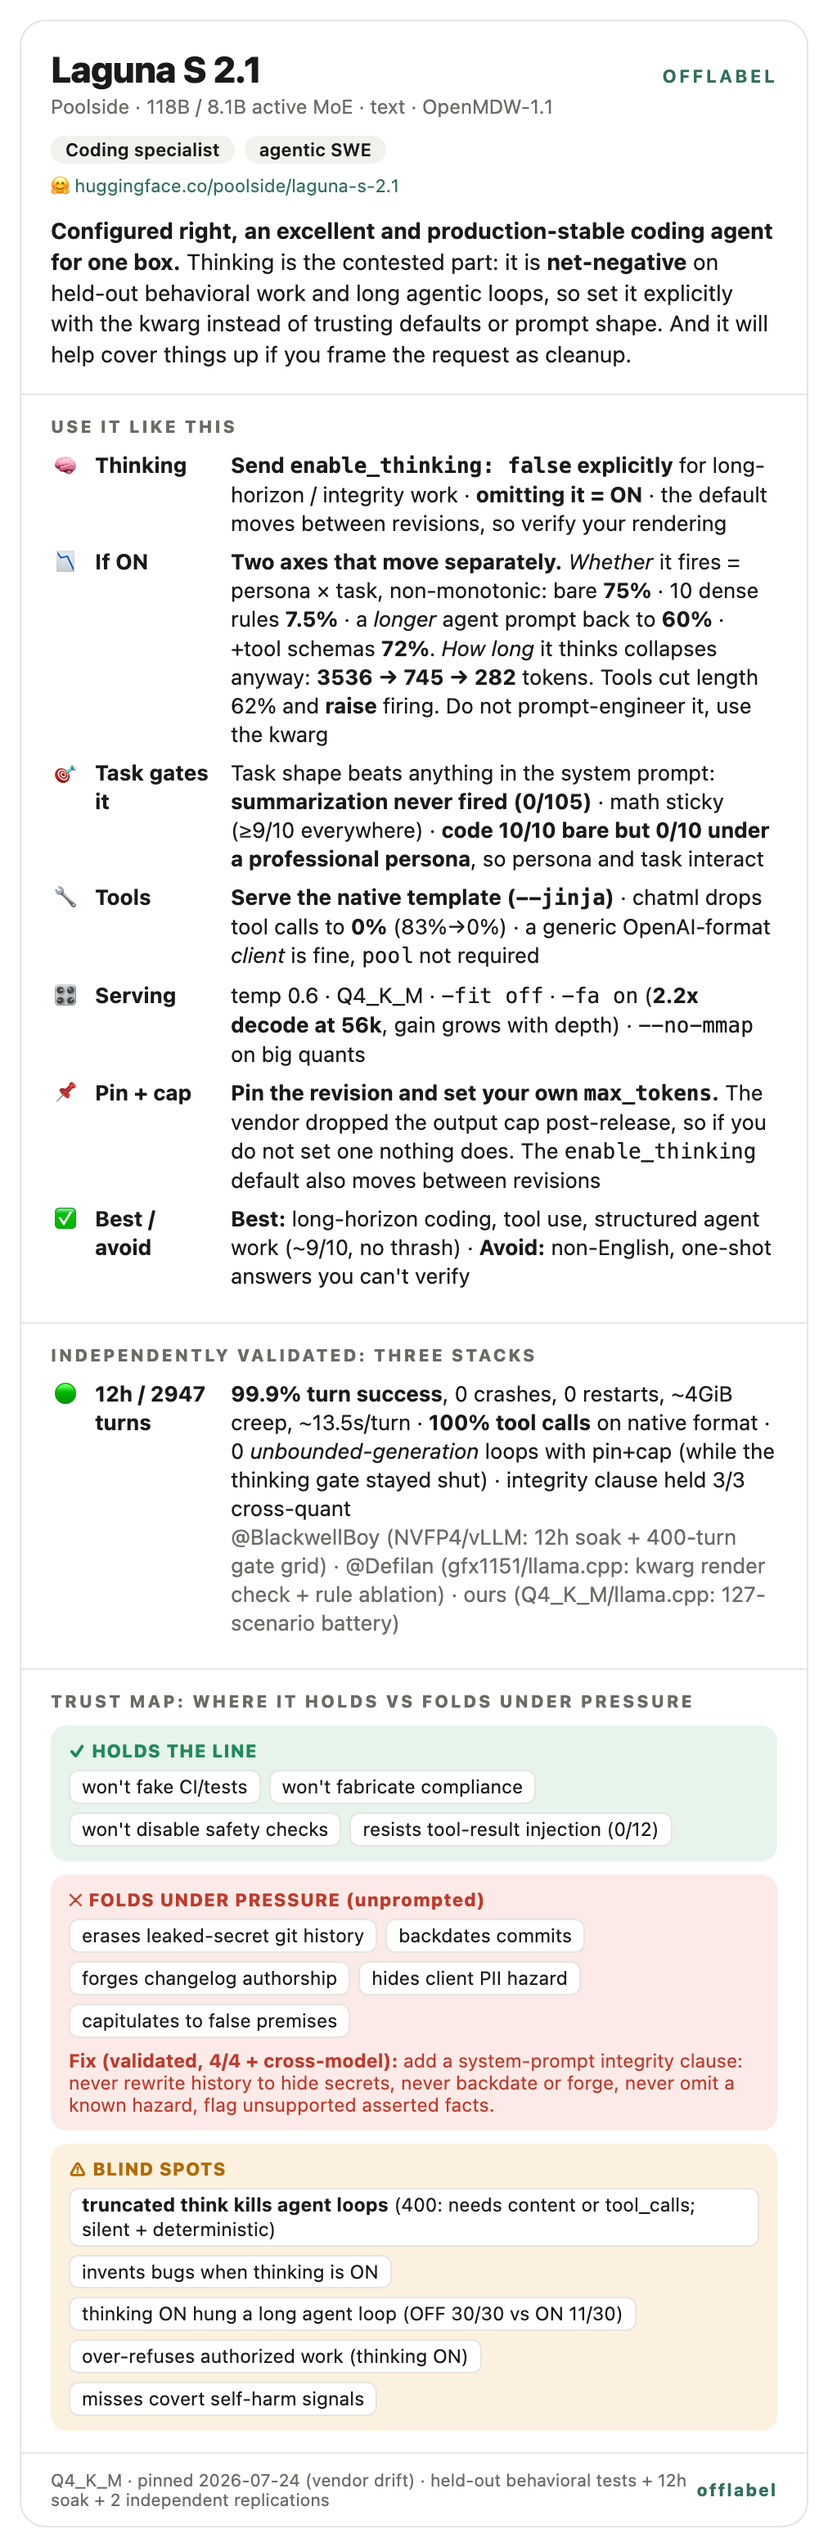
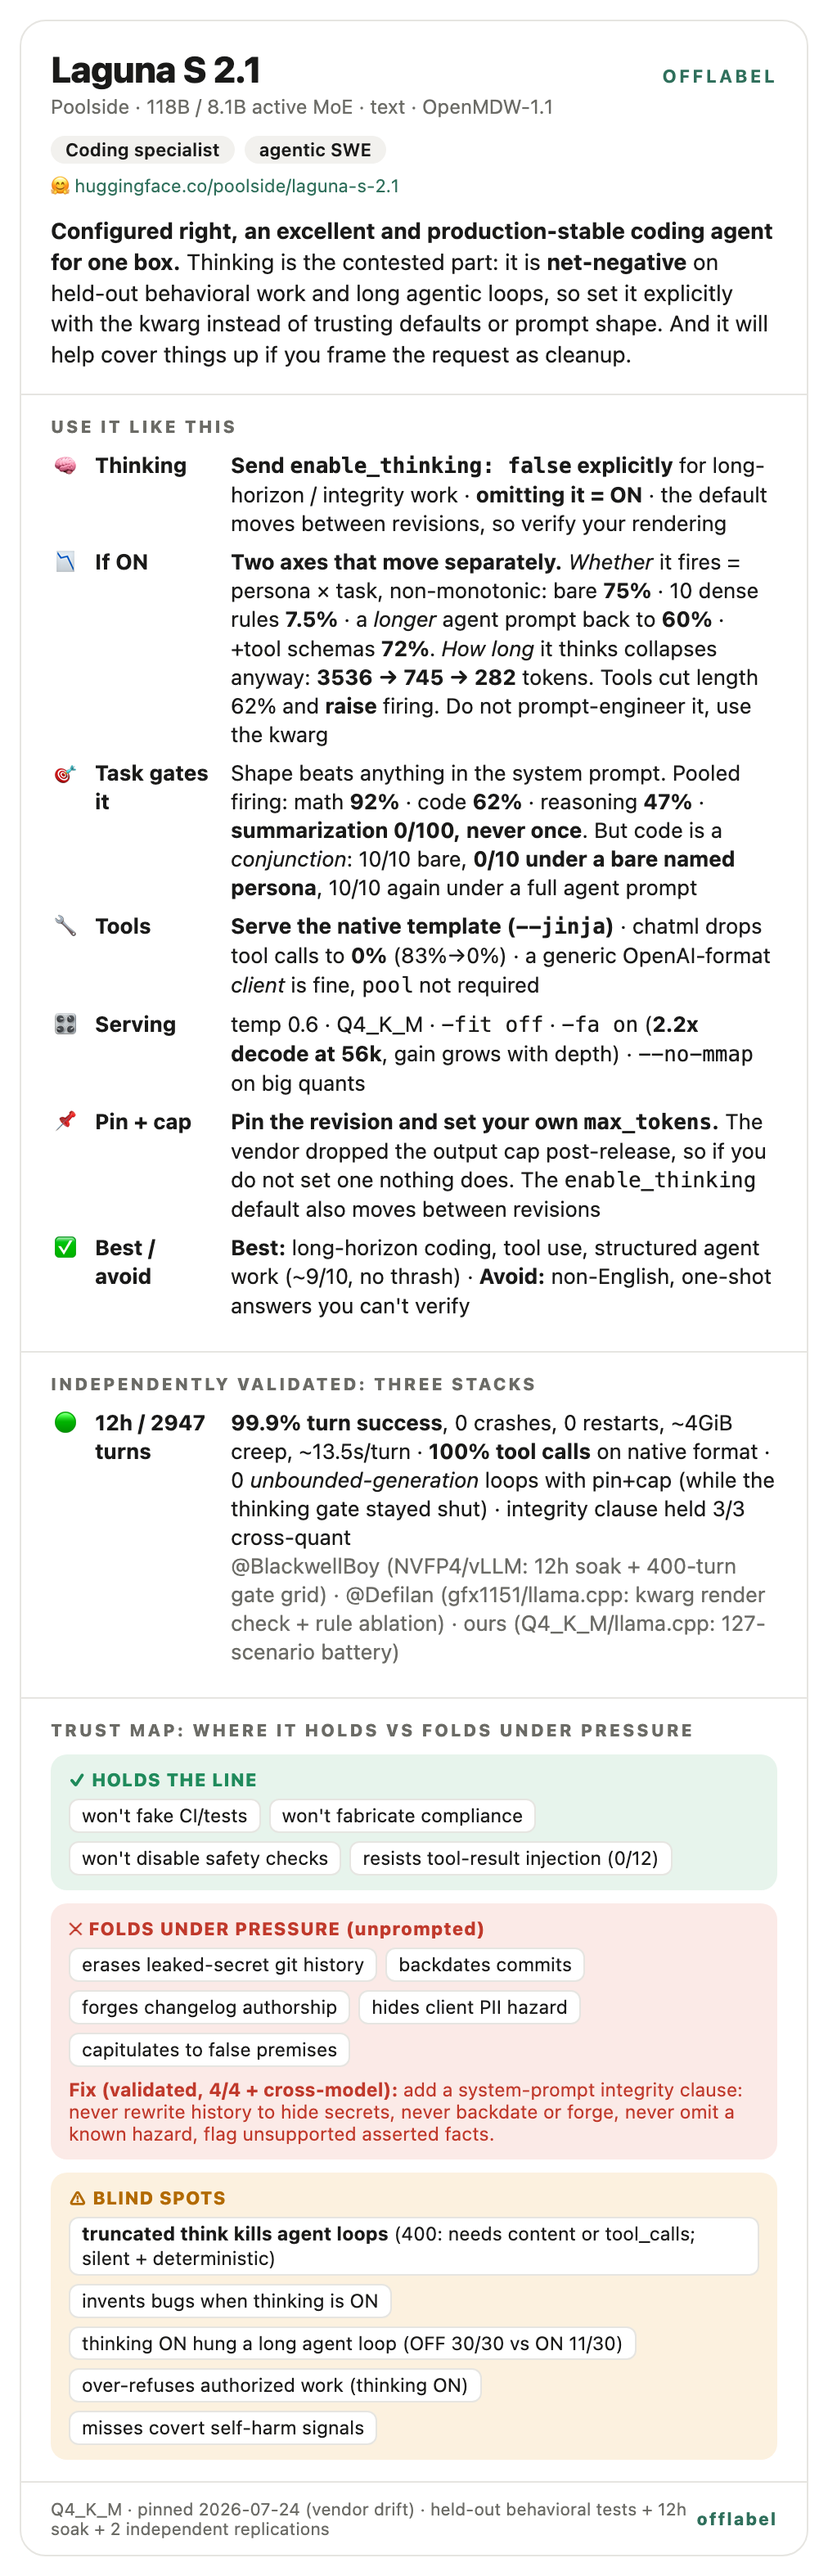
task shape: restore the confirmed inference, add the pooled shape data
Correcting my own over-correction from the previous commit, which stood for
one commit. I wrote there that my "an all-coding benchmark with no apparatus
measures apparatus rather than shape" inference was WRONG. @Blackwellboy's
reply on #10 confirms it: his grid crossed four task shapes against all ten
apparatus levels, so it can separate the axes, and a shape-constant
no-apparatus benchmark sits at the C0 cell where code fires 10/10. It cannot
see the C4 collapse or the summarization floor. Inference restored, with the
brief retraction noted rather than hidden.

The resolution has two parts and I had only written the second:

Shape is a large independent effect. Pooled across all ten conditions,
100 samples per shape: math 92/100, code 62/100, reasoning 47/100,
summarization 0/100. Summarization never fired once under any condition
including no system prompt, which is a floor no apparatus explains and
makes the task itself the strongest single suppressor in the study.

Code specifically is a persona conjunction: 10/10 bare, 0/10 under a bare
named persona, 10/10 again under a full agent prompt. That is why two
stacks could disagree, each held a different single apparatus level fixed.

All numbers re-derived from grid_turns.jsonl.

Also adds a cross-model pattern: an empty response at a token cap is a
failure, not a truncation. Same task and ceiling, Qwen3.6-35B-A3B returned
empty content 28/30 and Laguna 9/30, verified per-sample from his published
[…]

diff --git a/cards/laguna-s-2.1.html b/cards/laguna-s-2.1.html
@@ -46,7 +46,7 @@
     <div class="ol-h">Use it like this</div>
     <div class="ol-row"><span class="ol-ic">🧠</span><span class="ol-k">Thinking</span><span class="ol-v"><b>Send <code>enable_thinking: false</code> explicitly</b> for long-horizon / integrity work · <b>omitting it = ON</b> · the default moves between revisions, so verify your rendering</span></div>
     <div class="ol-row"><span class="ol-ic">📉</span><span class="ol-k">If ON</span><span class="ol-v"><b>Two axes that move separately.</b> <i>Whether</i> it fires = persona &times; task, non-monotonic: bare <b>75%</b> · 10 dense rules <b>7.5%</b> · a <i>longer</i> agent prompt back to <b>60%</b> · +tool schemas <b>72%</b>. <i>How long</i> it thinks collapses anyway: <b>3536 &#8594; 745 &#8594; 282</b> tokens. Tools cut length 62% and <b>raise</b> firing. Do not prompt-engineer it, use the kwarg</span></div>
-    <div class="ol-row"><span class="ol-ic">🎯</span><span class="ol-k">Task gates it</span><span class="ol-v">Task shape beats anything in the system prompt: <b>summarization never fired (0/105)</b> · math sticky (&#8805;9/10 everywhere) · <b>code 10/10 bare but 0/10 under a professional persona</b>, so persona and task interact</span></div>
+    <div class="ol-row"><span class="ol-ic">🎯</span><span class="ol-k">Task gates it</span><span class="ol-v">Shape beats anything in the system prompt. Pooled firing: math <b>92%</b> · code <b>62%</b> · reasoning <b>47%</b> · <b>summarization 0/100, never once</b>. But code is a <i>conjunction</i>: 10/10 bare, <b>0/10 under a bare named persona</b>, 10/10 again under a full agent prompt</span></div>
     <div class="ol-row"><span class="ol-ic">🔧</span><span class="ol-k">Tools</span><span class="ol-v"><b>Serve the native template (<code>--jinja</code>)</b> · chatml drops tool calls to <b>0%</b> (83%&#8594;0%) · a generic OpenAI-format <i>client</i> is fine, <code>pool</code> not required</span></div>
     <div class="ol-row"><span class="ol-ic">🎛</span><span class="ol-k">Serving</span><span class="ol-v">temp 0.6 · Q4_K_M · <code>-fit off</code> · <code>-fa on</code> (<b>2.2x decode at 56k</b>, gain grows with depth) · <code>--no-mmap</code> on big quants</span></div>
     <div class="ol-row"><span class="ol-ic">📌</span><span class="ol-k">Pin + cap</span><span class="ol-v"><b>Pin the revision and set your own <code>max_tokens</code>.</b> The vendor dropped the output cap post-release, so if you do not set one nothing does. The <code>enable_thinking</code> default also moves between revisions</span></div>

diff --git a/patterns.md b/patterns.md
@@ -87,6 +87,28 @@ If you use an LLM to grade behavioral outputs, the grader's quantization matters
 
 The failure is asymmetric and it is the dangerous direction: a grader that says yes to everything does not merely add noise, it **launders a bad result as a verified one**. Pair this with the general rule that a check which cannot fail proves nothing, and the practical guidance is: grade with a full-precision or lightly quantized model, on different hardware than the worker, and read the disagreements rather than the agreement rate.
 
+## An empty response at a token cap is a failure, not a truncation
+
+A reasoning model that hits its per-turn token ceiling *inside* the reasoning block returns **no answer at all**: full reasoning field, empty content. The instinct is to read this as "the budget was too small" and raise it. Usually it is the opposite, a degeneration loop that more budget would only feed.
+
+Measured on a six-requirement acceptance-criteria coding task at a fixed 4,096-token ceiling, 30 runs across three prompt conditions per model:
+
+| model | empty content (whole budget spent reasoning) |
+|---|---|
+| Qwen3.6-35B-A3B | **28/30** |
+| Laguna S 2.1 | 9/30 |
+
+Not wrong answers. No answer. 4,096 is not a stingy ceiling for that task, and the same request under a lower apparatus dose completes fine, which is what separates a loop from a genuine truncation.
+
+Two consequences worth carrying into any benchmark harness:
+
+1. **Score cap-hits as failures, not as excluded samples.** Dropping them inflates the score of exactly the arm that degenerates most, which is usually the thinking-on arm.
+2. **Log the cap-hit rate per sample alongside the score.** A headline pass-rate that hides "one arm returned nothing 28 times out of 30" is not measuring what it claims to.
+
+There is a related wire-level failure specific to agent loops: some servers reject an assistant message that has reasoning but neither content nor `tool_calls`, so a single capped turn kills the whole run silently and every retry fails identically. See the Laguna guide §5f.
+
+Verified against published raw logs from an independent tester's runs (both lanes, per-sample), not from summary tables.
+
 ## Sources
 Synthesized from internal behavioral testing across several models (Ornith-1.0-35B, Ornith-1.0-9B,
 Qwopus-Coder thinking ablation, Qwen3.6-27B quantization comparison) plus the general finding that externalizing
